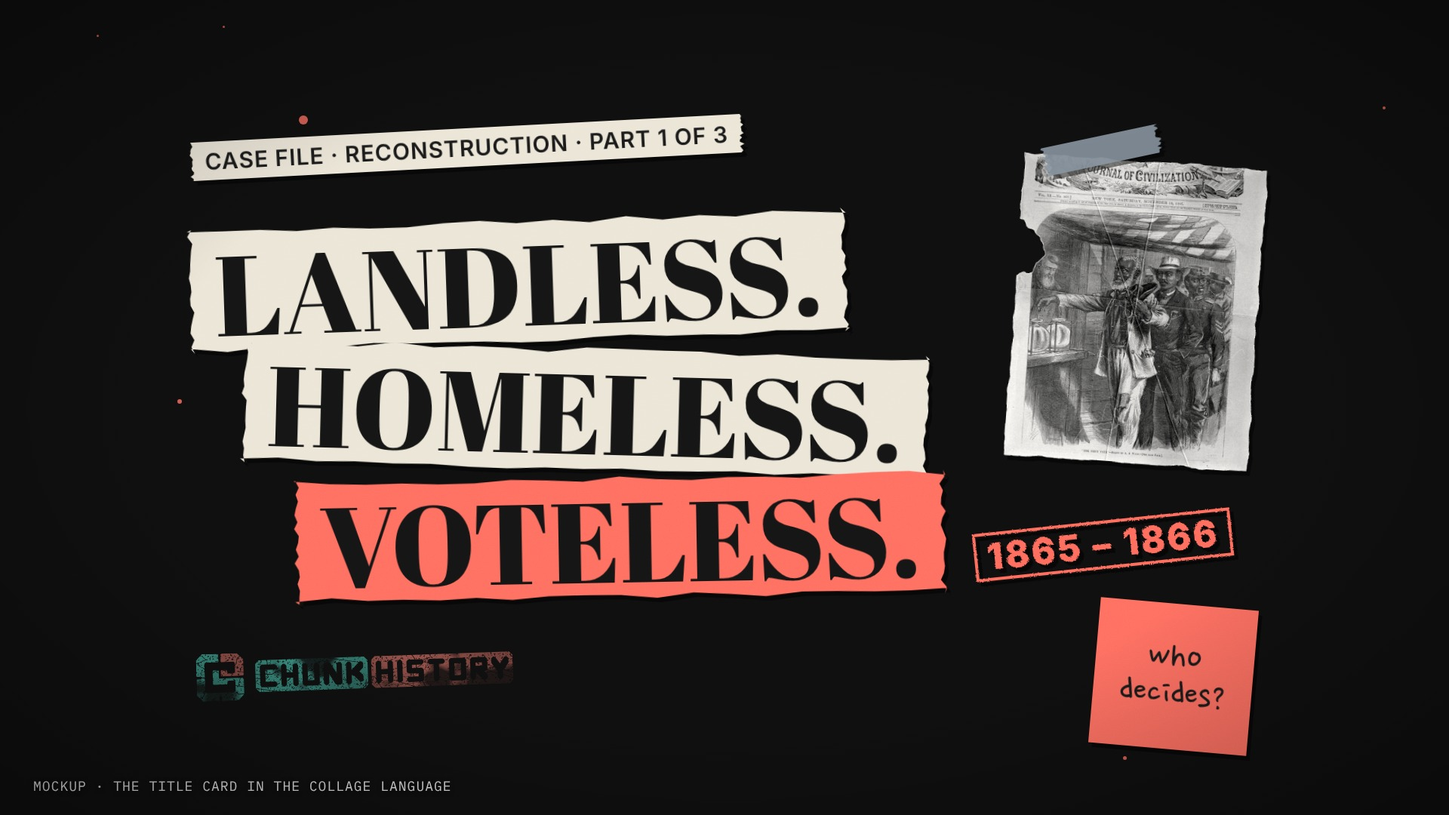
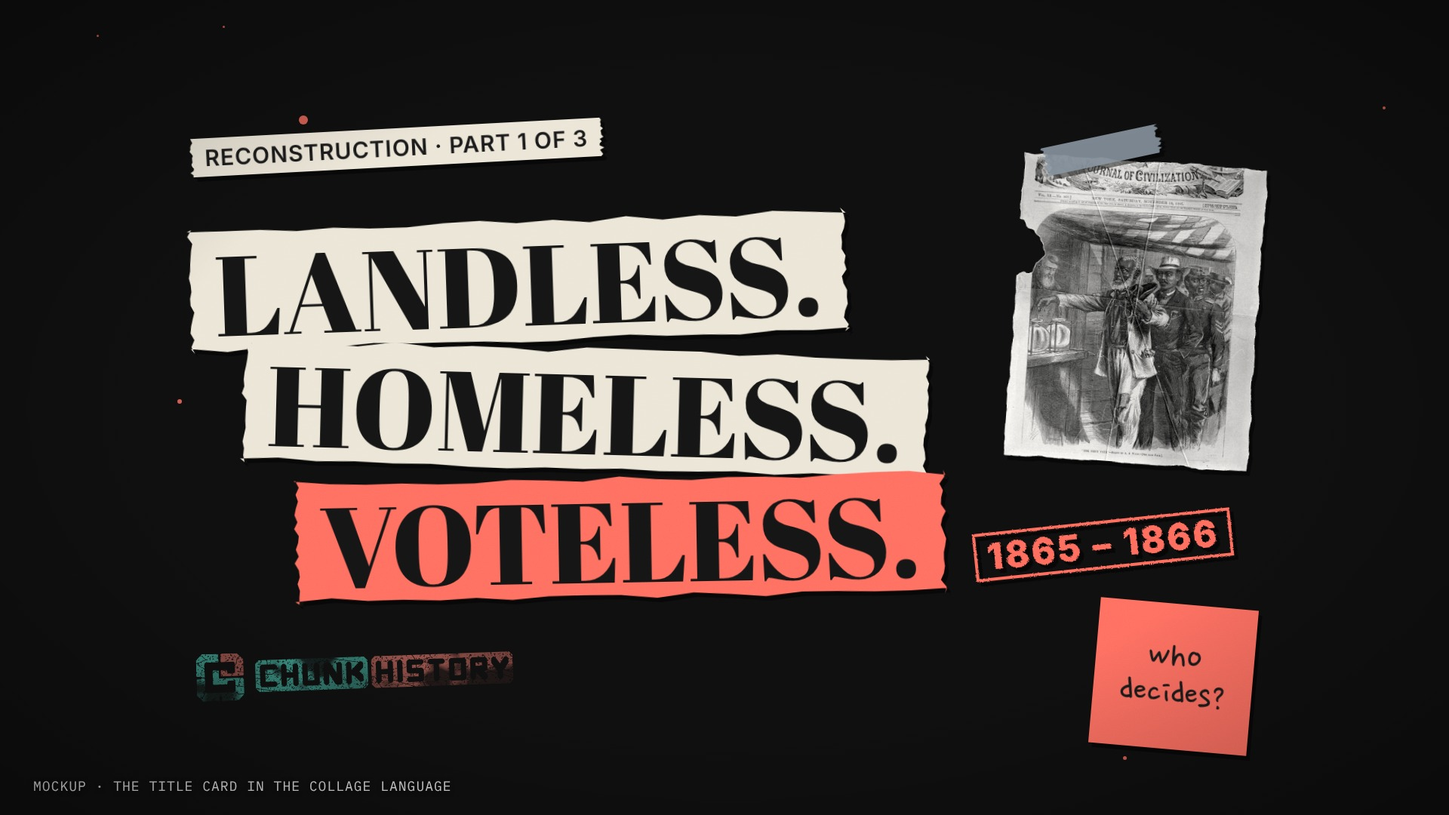
Board without case-file language; silhouette traced from a real portrait
- Collage mockups: labels name the thing and its date, no "case file",
  "evidence #" or "targets"; the Booth close-up is "one night, three men"
- The question-mark head is now a cut-paper silhouette traced from
  Saint-Memin's engraved profile of an unidentified man (LOC pga 13330),
  mounted on a torn card; tools/silhouette.py makes it from any portrait
- evidence_board.md renamed collage_board.md, with a no-crime-language rule;
  WALL.md, scripts' production notes and videos/README reworded to match

Claude-Session: https://claude.ai/code/session_01VWs6QjyLkPcnJxKdxdrfAF

Changed region(s): [[0.125, 0.1222, 0.5312, 0.2444]]

diff --git a/projects/Reconstruction/tests/src/tests/CollageMocks.tsx b/projects/Reconstruction/tests/src/tests/CollageMocks.tsx
@@ -1,9 +1,9 @@
-// The case-file collage: a flat, cut-paper evidence board (reference: the user's two "kidnapper" boards). Halftone photos,
-// torn label strips, sticky notes with handwritten questions, rubber stamps, tape, a silhouette with a question mark,
+// The collage board: flat, cut-paper pieces on black (reference: the user's two "kidnapper" boards). Halftone photos,
+// torn label strips, sticky notes with handwritten questions, rubber stamps, tape, a cut-paper silhouette with a question mark,
 // straight thread pin to pin. No soft shadows: flat paper on black.
 //   Collage-1  Episode 1's board, one hot accent for everything (closest to the reference)
 //   Collage-2  the same board in the channel's colour jobs (coral = subject, teal = thread and handwriting, orange = titles)
-//   Collage-3  a close-up "case": the night of April 14, 1865
+//   Collage-3  a close-up: the night of April 14, 1865
 import React from 'react';
 import {AbsoluteFill, Img, random, staticFile} from 'remotion';
 import {Tag} from '../kit/Kit';
@@ -93,17 +93,23 @@ const Threads: React.FC<{lines: [number, number, number, number][]}> = ({lines})
   );
 };
 
-/** The unknown at the centre: a head-and-shoulders outline with a question mark. */
-const Silhouette: React.FC<{label: string; size?: number}> = ({label, size = 260}) => {
+/** The open question at the centre: a cut-paper silhouette traced from a real portrait (tools/silhouette.py), mounted on a
+ *  torn cream card like a parlour silhouette, with a coral question mark. profile = Saint-Mémin engraving (LOC pga 13330),
+ *  front = an unidentified man, 1860 (LOC ppmsca 32242). */
+const SIL = {profile: {w: 509, h: 728}, front: {w: 361, h: 415}} as const;
+const Silhouette: React.FC<{label: string; size?: number; kind?: keyof typeof SIL; seed?: string}> = ({label, size = 260, kind = 'profile', seed = 'sl'}) => {
   const p = usePal();
+  const {w, h} = SIL[kind];
+  const sw = size * 0.78, sh = (sw * h) / w;
+  const src = staticFile(`img/wall/sil/${kind}.png`);
   return (
     <div style={{width: size, textAlign: 'center'}}>
-      <svg width={size} height={size} viewBox="0 0 200 200">
-        <path d="M100 22 C70 22 58 46 60 72 C61 92 72 108 84 116 C58 122 30 138 22 170 L22 186 L178 186 L178 170 C170 138 142 122 116 116 C128 108 139 92 140 72 C142 46 130 22 100 22 Z"
-          fill="none" stroke={p.accent} strokeWidth={6} strokeLinejoin="round" />
-        <text x="100" y="98" textAnchor="middle" fontFamily="Abril Fatface" fontSize="72" fill={p.accent}>?</text>
-      </svg>
-      <div style={{fontFamily: SANS, fontWeight: 800, fontSize: size * 0.13, letterSpacing: 2, color: p.accent, marginTop: -6, whiteSpace: 'nowrap', marginLeft: -100, marginRight: -100}}>{label}</div>
+      <div style={{position: 'relative', width: size, padding: `${size * 0.09}px 0 0`, background: p.paper, clipPath: torn(seed, 'lrtb', 7), boxSizing: 'border-box'}}>
+        <div style={{width: sw, height: sh, margin: '0 auto', background: '#161514',
+          WebkitMaskImage: `url(${src})`, maskImage: `url(${src})`, WebkitMaskSize: '100% 100%', maskSize: '100% 100%'}} />
+        <div style={{position: 'absolute', left: 0, right: 0, top: size * (kind === 'profile' ? 0.13 : 0.1), fontFamily: DISPLAY, fontSize: size * 0.42, color: p.accent, lineHeight: 1}}>?</div>
+      </div>
+      <div style={{fontFamily: SANS, fontWeight: 800, fontSize: size * 0.13, letterSpacing: 2, color: p.accent, marginTop: 10, whiteSpace: 'nowrap', marginLeft: -100, marginRight: -100}}>{label}</div>
     </div>
   );
 };
@@ -164,7 +170,7 @@ const Board1: React.FC<{caption: string}> = ({caption}) => {
       {/* the forty acres map, taped */}
       <Flat x={70} y={210} r={-4}><Photo src="cr_acres.png" w={330} /></Flat>
       <Flat x={110} y={190} r={-14} z={5}><TapeBit w={120} seed="a" /></Flat>
-      <Flat x={64} y={420} r={-3}><Strip text="evidence #1 · Jan 1865" seed="e1" size={22} /></Flat>
+      <Flat x={64} y={420} r={-3}><Strip text="Field Order 15 · Jan 1865" seed="e1" size={22} /></Flat>
       <Flat x={80} y={480} r={-6}><Sticky text="whose land?" w={170} size={50} /></Flat>
       {/* Lincoln */}
       <Flat x={470} y={170} r={3}><Photo src="cr_lincoln.png" w={205} /></Flat>
@@ -179,7 +185,7 @@ const Board1: React.FC<{caption: string}> = ({caption}) => {
       {/* the 13th Amendment */}
       <Flat x={1480} y={430} r={2}><Scrap text="Neither slavery nor involuntary servitude, except as a punishment for crime…" mark="except as a punishment for crime" w={380} seed="13" size={25} /></Flat>
       <Flat x={1650} y={640} r={-8}><Sticky text="loophole?" w={170} size={48} /></Flat>
-      <Flat x={1500} y={385} r={-3}><Strip text="evidence #6 · 13th Amendment" seed="e6" size={20} /></Flat>
+      <Flat x={1500} y={385} r={-3}><Strip text="13th Amendment · 1865" seed="e6" size={20} /></Flat>
       {/* Congress */}
       <Flat x={1240} y={600} r={-2}><Photo src="cr_stevens.png" w={200} /></Flat>
       <Flat x={1170} y={830} r={-7} z={6}><Stamp text="OVERRIDDEN" size={36} /></Flat>
@@ -195,7 +201,7 @@ const Board1: React.FC<{caption: string}> = ({caption}) => {
         </div>
       </Flat>
       <Flat x={600} y={700} r={-20} z={5}><TapeBit w={110} seed="h" /></Flat>
-      <Flat x={1000} y={980} r={0}><Strip text="CASE: RECONSTRUCTION · PART 1" seed="cs" size={22} bg={p.paper} /></Flat>
+      <Flat x={1000} y={980} r={0}><Strip text="RECONSTRUCTION · PART 1" seed="cs" size={22} bg={p.paper} /></Flat>
       {p === BRAND && <div style={{position: 'absolute', left: 1490, top: 940, transform: 'rotate(-3deg)'}}><WornLogo w={360} /></div>}
       <Threads lines={[T('who', 'lincoln'), T('who', 'johnson'), T('who', 'congress'), T('lincoln', 'forty'), T('johnson', 'except'), T('petition', 'who'), T('herald', 'who'), T('forty', 'petition')]} />
       {Object.values(pin).map(([x, y], i) => <Pin key={i} x={x} y={y} />)}
@@ -211,7 +217,7 @@ export const Collage2: React.FC = () => (
   <TestFrame vignette={0.35}><Ctx.Provider value={BRAND}><Board1 caption="Mockup · collage board in the channel's colours (coral subject, teal thread) · end of Episode 1" /></Ctx.Provider></TestFrame>
 );
 
-// ------------------------------------------------------------------- a close-up case ----------------------------------------
+// ------------------------------------------------------------------- a close-up: one night -------------------------------
 export const Collage3: React.FC = () => {
   const p = BRAND;
   const pin = {booth: [960, 300], lincoln: [420, 260], seward: [962, 690], johnson: [1500, 260]} as const;
@@ -224,8 +230,8 @@ export const Collage3: React.FC = () => {
           {/* Booth at the centre */}
           <Flat x={840} y={210} r={-2}><Photo src="cr_booth.png" w={240} /></Flat>
           <Flat x={820} y={540} r={2}><Strip text="J. WILKES BOOTH · actor" seed="jb" size={26} font={SANS} /></Flat>
-          <Flat x={1130} y={600} r={7}><Sticky text="three targets, one night" w={200} size={46} /></Flat>
-          {/* the targets */}
+          <Flat x={1130} y={600} r={7}><Sticky text="one night, three men" w={200} size={46} /></Flat>
+          {/* the three men */}
           <Flat x={300} y={190} r={3}><Photo src="cr_lincoln.png" w={215} /></Flat>
           <Flat x={270} y={460} r={-3}><Strip text="the President · Ford's Theatre" seed="t1" size={22} /></Flat>
           <Flat x={250} y={540} r={-8} z={6}><Stamp text="SHOT · AFTER 10 P.M." size={36} /></Flat>
@@ -236,12 +242,12 @@ export const Collage3: React.FC = () => {
           <Flat x={800} y={910} r={-2}><Strip text="the Secretary of State · his home" seed="t2" size={22} /></Flat>
           <Flat x={1090} y={850} r={-6} z={6}><Stamp text="STABBED · SURVIVED" size={34} /></Flat>
           <Flat x={140} y={760} r={-4}><Sticky text="why the vice president?" w={210} size={44} /></Flat>
-          <Flat x={1620} y={720} r={5}><Sticky text="who else knew?" w={200} size={46} /></Flat>
+          <Flat x={1620} y={720} r={5}><Sticky text="what if all three died?" w={210} size={44} /></Flat>
           <Threads lines={[[960, 300, 420, 260], [960, 300, 1500, 260], [960, 300, 962, 690]]} />
           {Object.values(pin).map(([x, y], i) => <Pin key={i} x={x} y={y} />)}
-          <div style={{position: 'absolute', left: 60, top: 40}}><Strip text="CASE FILE · APRIL 14, 1865" seed="cf" size={34} bg={p.paper} font={SANS} /></div>
+          <div style={{position: 'absolute', left: 60, top: 40}}><Strip text="APRIL 14, 1865" seed="cf" size={34} bg={p.paper} font={SANS} /></div>
           <div style={{position: 'absolute', left: 1560, top: 40, transform: 'rotate(4deg)'}}><WornLogo w={300} /></div>
-          <Tag text="Mockup · a close-up case (Episode 1, chapter 4)" />
+          <Tag text="Mockup · a close-up: one night (Episode 1, chapter 4)" />
         </AbsoluteFill>
       </Ctx.Provider>
     </TestFrame>
@@ -257,7 +263,7 @@ export const Collage4: React.FC = () => {
         <AbsoluteFill style={{background: p.bg}}>
           <Defs />
           <Splats seed="c4" />
-          <Flat x={250} y={170} r={-3}><Strip text="CASE FILE · RECONSTRUCTION · PART 1 OF 3" seed="k1" size={30} bg={p.paper} font={SANS} /></Flat>
+          <Flat x={250} y={170} r={-3}><Strip text="RECONSTRUCTION · PART 1 OF 3" seed="k1" size={30} bg={p.paper} font={SANS} /></Flat>
           {['LANDLESS.', 'HOMELESS.', 'VOTELESS.'].map((w, i) => (
             <Flat key={w} x={250 + i * 70} y={290 + i * 170} r={[-2, 1.5, -1][i]}>
               <div style={{background: i === 2 ? p.accent : p.paper, clipPath: torn(`w${i}`, 'lrtb', 8), padding: '10px 34px 4px', fontFamily: DISPLAY, fontSize: 150, lineHeight: 1, color: '#151515'}}>{w}</div>

diff --git a/projects/Reconstruction/tests/src/tests/WallMocks.tsx b/projects/Reconstruction/tests/src/tests/WallMocks.tsx
@@ -1,5 +1,5 @@
-// Wall mockups: four looks for the series evidence wall, each showing the wall at the end of Episode 1.
-// A  Evidence board   pinned cards, teal yarn, paper tags
+// Wall mockups: four looks for the series board, each showing the wall at the end of Episode 1.
+// A  Pinboard         pinned cards, teal yarn, paper tags
 // B  Chunk grid       brand slabs snapped into a staggered wall, orthogonal teal connectors, empty chunks waiting
 // C  Timeline rail    three lanes (LAW / LAND / PROTECTION) over a year axis, cards hung at their dates
 // D  Map table        the wall laid flat as a huge table in 3D, the forty-acres map as part of it
@@ -25,7 +25,7 @@ const CARDS: Card[] = [
   {id: 'petition', label: 'A FEW ACRES', doc: '“we wish to have A home if It be but A few acres.”', col: 'TOP', year: 1865.82, coral: true},
   {id: 'forty', label: 'FORTY ACRES', img: 'acres.jpg', col: 'LAND', year: 1865.05, fit: '62% 40%'},
   {id: 'ten', label: 'TEN PERCENT', img: 'lincoln.jpg', col: 'WHO', year: 1863.9, fit: '50% 30%'},
-  {id: 'targets', label: 'THREE TARGETS, ONE NIGHT', img: 'johnson.jpg', col: 'WHO', year: 1865.3, fit: '50% 25%'},
+  {id: 'targets', label: 'ONE NIGHT, THREE MEN', img: 'johnson.jpg', col: 'WHO', year: 1865.3, fit: '50% 25%'},
   {id: 'back', label: 'THE LAND GOES BACK', img: 'pardons.jpg', col: 'LAND', year: 1865.42, fit: '50% 40%'},
   {id: 'except', label: 'EXCEPT AS A PUNISHMENT FOR CRIME', doc: '“Neither slavery nor involuntary servitude, except as a punishment for crime…”', col: 'LAW', year: 1865.95, coral: true},
   {id: 'bureau', label: 'THE BUREAU', img: 'firstvote.jpg', col: 'PROT', year: 1866.2, dim: true, fit: '50% 45%'},
@@ -67,7 +67,7 @@ const Caption: React.FC<{name: string; note: string}> = ({name, note}) => (
   </>
 );
 
-// ---------------------------------------------------------------- A: evidence board --------------------------------------------
+// ---------------------------------------------------------------- A: pinboard ------------------------------------------------
 const POS_A: Record<string, [number, number, number, number, number]> = {
   // x, y, w (image), h, rotation
   petition: [790, 110, 320, 150, -1.5],
@@ -144,7 +144,7 @@ export const WallA: React.FC = () => (
       const c = CARDS.find((k) => k.id === id)!;
       return <Pin key={id} x={x} y={y} color={c.coral ? CORAL : TEAL} />;
     })}
-    <Caption name="A · EVIDENCE BOARD" note="pinned cards, teal yarn, handwritten tags" />
+    <Caption name="A · PINBOARD" note="pinned cards, teal yarn, handwritten tags" />
   </TestFrame>
 );
 

diff --git a/projects/Reconstruction/tests/src/tests/BoardAnim.tsx b/projects/Reconstruction/tests/src/tests/BoardAnim.tsx
@@ -1,4 +1,4 @@
-// The evidence board in motion (end of Episode 1): pieces drop onto the board on their lines and are pinned, yarn draws
+// The board in motion (end of Episode 1): pieces drop onto the board on their lines and are pinned, yarn draws
 // from cause to effect with its tag, the camera moves along the board, and the ending pulls back to show all of it.
 import React from 'react';
 import {AbsoluteFill, Easing, Img, interpolate, spring, staticFile, useCurrentFrame, useVideoConfig} from 'remotion';
@@ -21,7 +21,7 @@ const PIECES: Piece[] = [
   {id: 'petition', label: 'A FEW ACRES', doc: '“we wish to have A home if It be but A few acres.”', x: 790, y: 110, w: 320, h: 150, r: -1.5, at: -1, coral: true},
   {id: 'forty', label: 'FORTY ACRES', img: 'acres.jpg', fit: '62% 45%', x: 110, y: 360, w: 340, h: 180, r: -2, at: -1},
   {id: 'ten', label: 'TEN PERCENT', img: 'lincoln.jpg', fit: '50% 30%', x: 700, y: 420, w: 180, h: 190, r: 2, at: -1},
-  {id: 'targets', label: 'THREE TARGETS, ONE NIGHT', img: 'johnson.jpg', fit: '50% 25%', x: 960, y: 440, w: 180, h: 190, r: -3, at: -1},
+  {id: 'targets', label: 'ONE NIGHT, THREE MEN', img: 'johnson.jpg', fit: '50% 25%', x: 960, y: 440, w: 180, h: 190, r: -3, at: -1},
   {id: 'back', label: 'THE LAND GOES BACK', img: 'pardons.jpg', fit: '50% 40%', x: 170, y: 680, w: 250, h: 220, r: 2.5, at: 24},
   {id: 'except', label: 'EXCEPT AS A PUNISHMENT FOR CRIME', doc: '“Neither slavery nor involuntary servitude, except as a punishment for crime…”', x: 1430, y: 330, w: 320, h: 160, r: 2, at: 172, coral: true},
   {id: 'equal', label: 'EQUAL PROTECTION', doc: '“nor deny to any person within its jurisdiction the equal protection of the laws.”', x: 1450, y: 640, w: 320, h: 160, r: -2, at: 214},

diff --git a/projects/Reconstruction/tests/tools/silhouette.py b/projects/Reconstruction/tests/tools/silhouette.py
@@ -1,0 +1,57 @@
+"""Trace a real portrait into a silhouette: background removed (rembg mask), cut off at the chest with the curved
+"bust" line of a period paper silhouette, smoothed. Writes a filled PNG (alpha) and an SVG outline path.
+
+  python3 tools/silhouette.py photo.jpg mask.png out_stem --cut 0.62 [--depth 0.10] [--fill-shoulders]
+
+--cut              where the bust line sits (fraction of the image height)
+--fill-shoulders   for vignetted portraits: square off the shoulders below the widest row, so the bust isn't ragged
+"""
+import argparse, json
+import numpy as np, cv2
+
+ap = argparse.ArgumentParser()
+ap.add_argument('photo'); ap.add_argument('mask'); ap.add_argument('out')
+ap.add_argument('--cut', type=float, default=0.62); ap.add_argument('--depth', type=float, default=0.10)
+ap.add_argument('--thresh', type=float, default=0.45); ap.add_argument('--fill-shoulders', action='store_true')
+ap.add_argument('--trim', default='', help='x0,y0,x1,y1 fractions: ignore the mask outside this box (card edges)')
+a = ap.parse_args()
+
+m = cv2.imread(a.mask, cv2.IMREAD_GRAYSCALE).astype(np.float32) / 255
+H, W = m.shape
+if a.trim:
+    x0, y0, x1, y1 = [float(v) for v in a.trim.split(',')]
+    keep = np.zeros_like(m); keep[int(y0 * H):int(y1 * H), int(x0 * W):int(x1 * W)] = 1; m *= keep
+b = (m > a.thresh).astype(np.uint8)
+n, lab, st, _ = cv2.connectedComponentsWithStats(b)
+b = (lab == 1 + np.argmax(st[1:, cv2.CC_STAT_AREA])).astype(np.uint8)
+ycut = int(a.cut * H)
+ys, xs = np.nonzero(b)
+if a.fill_shoulders:
+    # below the widest row, keep the full width between its outer edges (a squared-off shoulder line)
+    widths = [(np.ptp(xs[ys == y]) if (ys == y).any() else 0) for y in range(H)]
+    yw = int(np.argmax(widths[: ycut]))
+    row = xs[ys == yw]
+    # symmetric shoulders around the head's centre line
+    top = ys.min(); head = xs[(ys > top) & (ys < top + (yw - top) * 0.5)]
+    hc = (head.min() + head.max()) / 2; half = max(hc - row.min(), row.max() - hc)
+    b[yw:ycut, int(hc - half):int(hc + half) + 1] = 1
+# the bust line: a curve, lowest in the middle
+ys, xs = np.nonzero(b)
+cx = (xs.min() + xs.max()) / 2; hw = (xs.max() - xs.min()) / 2
+yy, xx = np.mgrid[0:H, 0:W]
+b[yy > ycut - a.depth * H * np.clip(((xx - cx) / hw) ** 2, 0, 1)] = 0
+# fill any holes (a white collar, a highlight) and smooth the edge
+cs, _ = cv2.findContours(b, cv2.RETR_EXTERNAL, cv2.CHAIN_APPROX_NONE)
+b = np.zeros_like(b); cv2.drawContours(b, [max(cs, key=cv2.contourArea)], -1, 1, -1)
+b = cv2.GaussianBlur(b.astype(np.float32), (0, 0), 2.0)
+b = (b > 0.5).astype(np.uint8)
+ys, xs = np.nonzero(b)
+x0, x1, y0, y1 = xs.min(), xs.max() + 1, ys.min(), ys.max() + 1
+crop = b[y0:y1, x0:x1]
+cv2.imwrite(a.out + '.png', np.dstack([np.full_like(crop, 255)] * 3 + [crop * 255]))
+cs, _ = cv2.findContours(crop, cv2.RETR_EXTERNAL, cv2.CHAIN_APPROX_NONE)
+c = max(cs, key=cv2.contourArea)
+c = cv2.approxPolyDP(c, 1.0, True)[:, 0, :]
+d = 'M' + 'L'.join(f'{x},{y}' for x, y in c) + 'Z'
+json.dump({'w': int(x1 - x0), 'h': int(y1 - y0), 'd': d}, open(a.out + '.json', 'w'))
+print(a.out, x1 - x0, y1 - y0, len(c), 'points')

diff --git a/projects/Reconstruction/WALL.md b/projects/Reconstruction/WALL.md
@@ -1,10 +1,11 @@
-# The wall: one evidence board for the whole series
+# The wall: one collage board for the whole series
 
-> **Look chosen:** the evidence board (mockup `review/wall_mockups/A_evidence_board.jpg`), with the tilted desk of
-> mockup D for moving to the maps. Channel-wide spec: [`../../techniques/evidence_board.md`](../../techniques/evidence_board.md).
+> **Look:** the cut-paper collage board in the channel's colours (mockups `review/wall_mockups/F2`–`F4`), with the
+> tilted desk of mockup D for moving to the maps. No case-file or crime language anywhere on it. Channel-wide spec:
+> [`../../techniques/collage_board.md`](../../techniques/collage_board.md).
 > Below, read "wall" as "board" and "card" as a pinned piece; the chunk-wall details (slab shapes, mortar) no longer apply.
 
-Every chapter adds one **chunk** to a single evidence wall. Each episode ends by pulling back to show its chunks in
+Every chapter adds one **chunk** to a single board. Each episode ends by pulling back to show its chunks in
 place, and the last minute of the series pulls all the way back to the whole wall. That's the *Chunk History* idea on
 screen: small pieces you can hold, adding up to the big picture.
 
@@ -27,15 +28,15 @@ This page is the plan for building it. Chapter scripts point at it in their prod
   two-to-five-word label in Abril. The chunk for the chapter's subject gets the
   coral tint; everything else stays black and white.
 - **Strings are causes.** A teal string with a small handwritten label ("therefore", "but") joins a cause to its effect,
-  drawn on as the narration says the link. Dashed string = suspected, not proven (the 1877 deal).
+  drawn on as the narration says the link. Dashed string = claimed, not proven (the 1877 deal).
 - **Pins land on the chapter's last line**, with a soft knock (the brand intro's knock, not a stamp).
 
 ## The five new techniques, and where each one lives
 
 | Technique | Where | What it shows |
 |---|---|---|
-| **Evidence wall** | All three episodes; zoom-outs at every episode's end | The chunks adding up |
-| **Evidence wall, close-up investigation** | Ep 1 ch04 (the Booth plot), Ep 3 ch08 (1877) | Portraits strung together: three targets, one night; the dashed string to "the deal" with a "no proof" tag |
+| **The board** | All three episodes; zoom-outs at every episode's end | The chunks adding up |
+| **Board close-up** | Ep 1 ch04 (the Booth plot), Ep 3 ch08 (1877) | Portraits strung together: one night, three men; the dashed string to "the deal" with a "no proof" tag |
 | **Powers-of-ten zoom** | Ep 1 ch02 (the South → the coast strip → Edisto → one 40-acre plot, "about 30 football fields"); reused in Ep 2 ch08 (the same plot, now with a planter's name on it) | Scale made physical |
 | **Testimony as a transcript** | Ep 3 ch01 and ch07 | Margaret Ann Caldwell's Q-and-A on the printed Senate page, lines highlighted as they're read |
 | **Telegrams as texts** | Ep 3 ch07 (Ames → Grant; the attorney general's reply quoting the President) | Real telegram slips, stacking like a message thread |
@@ -52,7 +53,7 @@ This page is the plan for building it. Chapter scripts point at it in their prod
 | 01 | ★ A FEW ACRES | The Edisto petition | top centre | "And to those three words." | — |
 | 02 | FORTY ACRES | Field Order No. 15 | LAND | "whether it would last." | — |
 | 03 | TEN PERCENT | Lincoln portrait + proclamation | (centre, "who decides?") | "neither had won." | — |
-| 04 | THREE TARGETS, ONE NIGHT | Lincoln, Seward, Johnson; a Ford's Theatre playbill | centre | "a very different party." | Booth → three targets (close-up investigation) |
+| 04 | ONE NIGHT, THREE MEN | Lincoln, Seward, Johnson; a Ford's Theatre playbill | centre | "a very different party." | Booth → the three men (close-up) |
 | 05 | THE LAND GOES BACK | Johnson portrait + pardon document | LAND, on top of FORTY ACRES | "What was it going to do?" | Johnson —therefore→ LAND |
 | 06 | ★ EXCEPT AS A PUNISHMENT FOR CRIME | 13th Amendment + Mississippi code | LAW | "*Except as a punishment for crime.*" | 13th —but→ Black Codes |
 | 07 | THE BUREAU | Freedmen's Bureau engraving | PROTECTION area (dimmed until Ep 2) | "so did a new Freedmen's Bureau bill." | Black Codes —therefore→ Civil Rights Act |

diff --git a/techniques/collage_board.md b/techniques/collage_board.md
@@ -1,13 +1,17 @@
-# The evidence board: the channel's recurring device
+# The collage board: the channel's recurring device
 
-*Chunk History* explains history in chunks that add up to the bigger picture. The evidence board makes that visible:
+*Chunk History* explains history in chunks that add up to the bigger picture. The collage board makes that visible:
 each chapter pins one piece to a board on the desk, teal yarn ties causes to effects, and the end of the video pulls back
 to show the whole board.
 
-Chosen look: mockup **A** (`projects/Reconstruction/review/wall_mockups/A_evidence_board.jpg`), with mockup **D**'s tilted
-desk (`D_map_table.jpg`) for moving between the board and the 3D maps. Prototype code: `WallA` and `WallD` in
-`projects/Reconstruction/tests/src/tests/WallMocks.tsx` (to move into the template kit once the animated version is
-approved). The block-in-the-wall "chunk wall" was tried and set aside.
+Look in progress: the cut-paper collage in the channel's colours (mockups `F2`–`F4` in
+`projects/Reconstruction/review/wall_mockups/`), with mockup **D**'s tilted desk (`D_map_table.jpg`) for moving between
+the board and the 3D maps. Prototype code: `projects/Reconstruction/tests/src/tests/CollageMocks.tsx` (to move into the
+template kit once the animated version is approved). The block-in-the-wall "chunk wall" was tried and set aside.
+
+**No case-file or crime language** (Oct 2026). It's a desk of history, not a detective's board: labels name the thing
+and its date ("Field Order 15 · Jan 1865", "APRIL 14, 1865"), never "case", "case file", "evidence #", "suspect",
+"target" or "investigation". Stamps say what happened (PARDONED, OVERRIDDEN), not verdicts on a person.
 
 ## Scales
 
@@ -24,12 +28,15 @@ approved). The block-in-the-wall "chunk wall" was tried and set aside.
   so the camera can tilt from the board down onto the desk and the 3D maps (mockup D).
 - **A piece** is a photo with **no frame**: cropped out of its mount and run through `tools/crease.py` so it looks like a
   creased, worn old print (folds, fine cracks, chipped and torn edges). Documents are torn paper scraps. Labels are torn,
-  typewritten strips; questions go on sticky notes in the handwriting; verdicts are rubber stamps (the collage look,
+  typewritten strips; questions go on sticky notes in the handwriting; outcomes are rubber stamps (the collage look,
   mockups `F*`). The chapter's subject piece gets the coral tint (coral pin, coral
   label); everything else stays black and white.
 - **Pins** are teal (coral for the subject piece).
+- **The open question** gets a cut-paper silhouette: a real portrait traced into a solid profile (`tools/silhouette.py`,
+  from a public-domain engraving or photo of an unidentified sitter, never a named person), mounted on a torn cream card
+  like a parlour silhouette, with a coral question mark.
 - **Yarn** is teal and runs pin to pin with a little sag. Where it says something, a small cream paper tag reads *but*
-  or *therefore* in the teal handwriting. Dashed yarn = suspected, not proven.
+  or *therefore* in the teal handwriting. Dashed yarn = claimed, not proven.
 - **Column names** (two to four, the parts of the video's driving question) are chalked on the board in the
   handwriting. They appear only when the story earns them.
 
@@ -49,8 +56,8 @@ approved). The block-in-the-wall "chunk wall" was tried and set aside.
   with a soft knock.
 - **Yarn draws** pin to pin as the narration says the link, stepped at 12 fps like every other mark; its tag pops on
   at the end.
-- **Close-ups** (an investigation): the camera pushes in on two or three pieces and draws yarn between them while the
-  rest of the board goes dark (Booth's three targets; the 1877 deal).
+- **Close-ups**: the camera pushes in on two or three pieces and draws yarn between them while the rest of the board
+  goes dark (one night, three men: Lincoln, Seward, Johnson; the 1877 deal).
 - **The ending** pulls back to the whole board over the closing lines.
 
 ## Writing for the board

diff --git a/videos/README.md b/videos/README.md
@@ -90,7 +90,7 @@ The two Jackson videos before it used other looks. Each video's key documents ar
 
 **Picture**
 - **Photos have no frames and always look worn** (Oct 2026): no white borders or card mounts; every archival photo is cropped out of its mount and shown as a creased old print (fold lines, a web of fine cracks, chipped and torn edges with white paper fibres, faint stains) with `tools/crease.py` (in `projects/Reconstruction/tests/tools/` until it moves into the template).
-- **The evidence board in every video** (from the Reconstruction series, Oct 2026): each chapter pins one piece to a board on the desk, teal yarn with *but* / *therefore* tags ties causes to effects, and the ending pulls back to the whole board. You chose the evidence board (with the tilted desk for moving to the maps) over the block-in-the-wall "chunk wall". Spec: [`../techniques/evidence_board.md`](../techniques/evidence_board.md).
+- **The collage board in every video** (from the Reconstruction series, Oct 2026): each chapter pins one piece to a board on the desk, teal yarn with *but* / *therefore* tags ties causes to effects, and the ending pulls back to the whole board. You chose the board (cut-paper collage in the channel's colours, with the tilted desk for moving to the maps) over the block-in-the-wall "chunk wall". No case-file or crime language on it. Spec: [`../techniques/collage_board.md`](../techniques/collage_board.md).
 - **Text never runs off the frame.** You caught this in Fix Everything, King Andrew, Grip Tighter and Ouija. Run the probe every time.
 - Big titles stay on screen for at least 2 seconds.
 - **Gentle chapter endings** (from *The Exact Spot*): about 2 seconds of hold after the last word, the music lifting into it, then a slower dip to black before the logo break. No cutting off right after the voice.

diff --git a/projects/Reconstruction/ep1/script/SCRIPT.md b/projects/Reconstruction/ep1/script/SCRIPT.md
@@ -313,7 +313,7 @@ first time it's said, so a viewer who has never taken a history class can follow
 
 ## Production notes
 
-**The wall ([`../../WALL.md`](../../WALL.md)).** Every chapter pins one chunk to the series evidence wall on its last line; the tables there give each card, its column (LAW / LAND / PROTECTION), its anchor phrase and its strings. ch02 gets the powers-of-ten zoom (the South → the strip → Edisto → one 40-acre plot); ch04 is a close-up of the wall (Booth's three targets strung together); ch07–ch09 are one big canvas (no cuts, the camera travels the wall as the fight escalates); ch10 pulls back to the whole Episode 1 wall.
+**The wall ([`../../WALL.md`](../../WALL.md)).** Every chapter pins one chunk to the series board on its last line; the tables there give each card, its column (LAW / LAND / PROTECTION), its anchor phrase and its strings. ch02 gets the powers-of-ten zoom (the South → the strip → Edisto → one 40-acre plot); ch04 is a close-up of the wall (Booth's three targets strung together); ch07–ch09 are one big canvas (no cuts, the camera travels the wall as the fight escalates); ch10 pulls back to the whole Episode 1 wall.
 
 **Motif card: the three words.** The title is the motif: *LANDLESS · HOMELESS · VOTELESS* on a torn-paper card in the same place each
 time it returns (ch01, ch10). In ch10 a second line appears under it: *LAW ✔ · LAND ✘*. Episode 2 crosses out VOTELESS.

diff --git a/projects/Reconstruction/tests/README.md b/projects/Reconstruction/tests/README.md
@@ -91,3 +91,14 @@ lumpier than a 30-mile band. Fine for a test; for the episode, draw it from the 
 
 Python needs `opencv-python-headless numpy scipy onnxruntime pyshp shapely`. The depth model (99 MB, Apache-2.0) is
 `onnx-community/depth-anything-v2-small` on Hugging Face; it isn't committed.
+
+## Silhouette traced from a real portrait (Oct 2026)
+
+`tools/silhouette.py photo mask out_stem --cut --depth --thresh [--fill-shoulders]` turns a portrait and a person mask
+(rembg `u2net_human_seg`) into a solid head-and-shoulders silhouette with a curved bust line: `out_stem.png` (white on
+transparent, used as a CSS mask) and `out_stem.json` (an SVG path). In `public/img/wall/sil/`:
+
+- `profile` from Saint-Mémin's engraved profile of an unidentified man, about 1798 (LOC pga 13330), the one on the board
+- `front` from an unidentified man's portrait, 1860 (LOC ppmsca 32242), for a front-facing version
+
+Comparison: `review/wall_mockups/F5_silhouette_traced.jpg`.

diff --git a/projects/Reconstruction/ep3/script/SCRIPT.md b/projects/Reconstruction/ep3/script/SCRIPT.md
@@ -281,7 +281,7 @@ Thanks for watching this series. If you want more stories like this one, subscri
 
 ## Production notes
 
-**The wall ([`../../WALL.md`](../../WALL.md)).** Every chapter pins one chunk to the series evidence wall on its last line; the tables there give each card, its column (LAW / LAND / PROTECTION), its anchor phrase and its strings.
+**The wall ([`../../WALL.md`](../../WALL.md)).** Every chapter pins one chunk to the series board on its last line; the tables there give each card, its column (LAW / LAND / PROTECTION), its anchor phrase and its strings.
 
 **Heavy chapters.** ch01 (Caldwell's death), ch04 (Colfax), ch07 (Clinton, Caldwell): plain statements, numbers, the primary source,
 space. No asides. Sparse music; a held beat after "Never say you killed a coward." (ch01), "Nobody was ever punished for Colfax." (ch04)

diff --git a/projects/Reconstruction/ep2/script/SCRIPT.md b/projects/Reconstruction/ep2/script/SCRIPT.md
@@ -266,7 +266,7 @@ Thanks for watching. If you want the last part of this story, subscribe, and I'l
 
 ## Production notes
 
-**The wall ([`../../WALL.md`](../../WALL.md)).** Every chapter pins one chunk to the series evidence wall on its last line; the tables there give each card, its column (LAW / LAND / PROTECTION), its anchor phrase and its strings.
+**The wall ([`../../WALL.md`](../../WALL.md)).** Every chapter pins one chunk to the series board on its last line; the tables there give each card, its column (LAW / LAND / PROTECTION), its anchor phrase and its strings.
 
 **Motif card.** *LANDLESS · HOMELESS · VOTELESS* returns in ch02 (recap), ch03 ("one of them was about to be crossed out"), ch05
 (VOTELESS struck through in teal on "Voteless"), ch10 (LANDLESS circled). Same place, same size as Episode 1.
